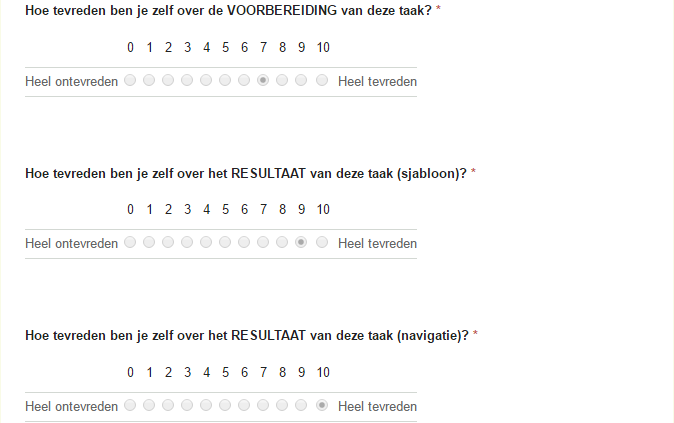
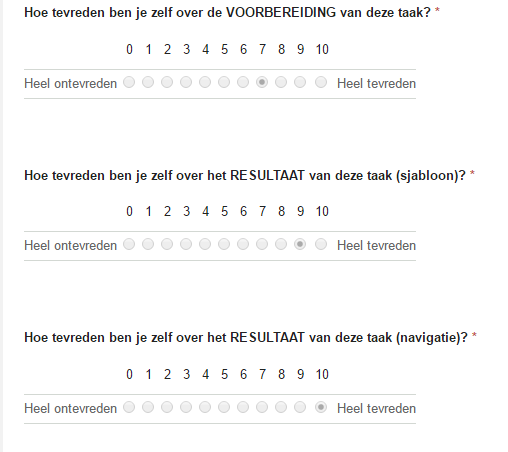
update #4 4 december 2016

diff --git a/AboutMe.html b/AboutMe.html
@@ -23,18 +23,21 @@
         <li class="pure-menu-item"><a href="info.html" class="pure-menu-link">Info</a></li>
     </ul>
 </div>
-
+    
+<div class="FAQ">
 <div class="wrapper wrapper-content pure-g">
-    <div class="section1 pure-u-1 pure-u-md-1-2">
-    <img src="images/ITAutobiography.png" class="imgAlign">
-    <h2>the past</h2>
-    <p>When I first discovered IT, I remember as if it were yesterday. A chilly winter day in the kitchen of our house with the TV on in the background and a laptop playing Ketnet Kick: The Mysterious Island. You must be thinking, "Do you still play them to this day?" The answer is quite simple, YES. Those games are precious to me. It’s like taking a lollipop from a 5-year old. That’s something you just do not do. I cried if my mom said: “Those games are ruining your childhood. Turn them off and help your dear mother an hour”. That was absolute hell to me. But then again, I was like 7 years old. An hour for my mom was a day lost to me. That was the gaming part of my childhood. There was also an internetting time, a time that I hold dear to me for the rest of my life. A time that just isn’t the internetting time of today. A time of Speeleiland.nl and Spele.nl. Yes those are gaming sites. So you could say that my childhood involved gaming and helping my mother. When I discovered these sites, it was like a whole new world opened up to me. For the first time in my life I had a remote game library that I could access around the world. And those were the best times of my childhood.</p>
-    <h2>the present</h2>
-    <p>With the past behind me I followed my dream to finally work in the IT world. And that journey led me to the Immaculata Institute, a school with one of the best IT courses in my area. A little school, yes, but that makes the tutors thus the more interesting. One thing before I continue my travels. I don’t consider myself an expert. There are far better technicians out there. With that said, we continue. I’m currently at the time of me writing this in senior year of high school. I have a past year full with disassembling computers and reassembling computers, using parts of different pcs to upgrade other ones, finding ‘ancient’ technology like a pong machine or floppy disks. But the highlight of the past year, after 3 years of nagging I finally put together my very own computer. If you’re wondering: “Why are computers so interesting? they’re just machines.” If you are thinking that then, in my opinion, you are the dumbest person on earth. In the fact that they are machines, yes, then you’re right. But you can do so much more than just game what I have been doing is just one part of the entire spectrum of the computer. yes you can play videogames all your life. There are even people who play video games and earn money with it, look at PewDiePie (a YouTuber) or CohhCarnage (a Twitch streamer). Other people earn their money by developing games such as Rocksteady (creator of the batman: Arkham series) or Rockstar studios (creator of Grand Theft Auto, GTA for short). That’s the gaming world, a world on its own. There are also different categories in the spectrum, like developing web applications or configuring and creating websites. I’m not going into all the details of all the different aspects. But there is one side of the spectrum that I personally really like. And that’s configuring and managing a network inside a company or school or whatever needs a stable network.</p>
-    <h2>the future</h2>
-    <p>As I said in the previous paragraph I really like to manage a network. I also want to make this my job in the end. I could spend my life just managing a network. I would be happy with that, having a wife, a couple of kids, and a job as the head in IT for some famous company. Money would flow in buckets then, living the perfect life I always wanted, and in my free time, a gaming rig with 3 BenQ monitors, DX Racer chair, 1080 GPU, i7 CPU,  it’s one nerd gasm after the other. That would complete all the efforts I made along the way.</p>
-    <blockquote class="blockquote-ITAutobiography"><i>But that’s all in the future. For now I have to focus on my studies as an IT specialist. Otherwise I can’t accomplish my goal, and would be very unhappy.</i></blockquote>
+    <div class="question pure-u-1 pure-u-md-1-2">
+        <img src="images/ITAutobiography.png" class="imgAlign">
+        <h2>the past</h2>
+        <p>When I first discovered IT, I remember as if it were yesterday. A chilly winter day in the kitchen of our house with the TV on in the background and a laptop playing Ketnet Kick: The Mysterious Island. You must be thinking, "Do you still play them to this day?" The answer is quite simple, YES. Those games are precious to me. It’s like taking a lollipop from a 5-year old. That’s something you just do not do. I cried if my mom said: “Those games are ruining your childhood. Turn them off and help your dear mother an hour”. That was absolute hell to me. But then again, I was like 7 years old. An hour for my mom was a day lost to me. That was the gaming part of my childhood. There was also an internetting time, a time that I hold dear to me for the rest of my life. A time that just isn’t the internetting time of today. A time of Speeleiland.nl and Spele.nl. Yes those are gaming sites. So you could say that my childhood involved gaming and helping my mother. When I discovered these sites, it was like a whole new world opened up to me. For the first time in my life I had a remote game library that I could access around the world. And those were the best times of my childhood.</p>
+        <h2>the present</h2>
+        <p>With the past behind me I followed my dream to finally work in the IT world. And that journey led me to the Immaculata Institute, a school with one of the best IT courses in my area. A little school, yes, but that makes the tutors thus the more interesting. One thing before I continue my travels. I don’t consider myself an expert. There are far better technicians out there. With that said, we continue. I’m currently at the time of me writing this in senior year of high school. I have a past year full with disassembling computers and reassembling computers, using parts of different pcs to upgrade other ones, finding ‘ancient’ technology like a pong machine or floppy disks. But the highlight of the past year, after 3 years of nagging I finally put together my very own computer. If you’re wondering: “Why are computers so interesting? they’re just machines.” If you are thinking that then, in my opinion, you are the dumbest person on earth. In the fact that they are machines, yes, then you’re right. But you can do so much more than just game what I have been doing is just one part of the entire spectrum of the computer. yes you can play videogames all your life. There are even people who play video games and earn money with it, look at PewDiePie (a YouTuber) or CohhCarnage (a Twitch streamer). Other people earn their money by developing games such as Rocksteady (creator of the batman: Arkham series) or Rockstar studios (creator of Grand Theft Auto, GTA for short). That’s the gaming world, a world on its own. There are also different categories in the spectrum, like developing web applications or configuring and creating websites. I’m not going into all the details of all the different aspects. But there is one side of the spectrum that I personally really like. And that’s configuring and managing a network inside a company or school or whatever needs a stable network.</p>
+        <h2>the future</h2>
+        <p>As I said in the previous paragraph I really like to manage a network. I also want to make this my job in the end. I could spend my life just managing a network. I would be happy with that, having a wife, a couple of kids, and a job as the head in IT for some famous company. Money would flow in buckets then, living the perfect life I always wanted, and in my free time, a gaming rig with 3 BenQ monitors, DX Racer chair, 1080 GPU, i7 CPU,  it’s one nerd gasm after the other. That would complete all the efforts I made along the way.</p>
+        <blockquote class="blockquote-ITAutobiography"><i>But that’s all in the future. For now I have to focus on my studies as an IT specialist. Otherwise I can’t accomplish my goal, and would be very unhappy.</i></blockquote>
     </div>
+    </div>
+</div>
 </div>
     
 

diff --git a/info.html b/info.html
@@ -23,25 +23,26 @@
     </ul>
 </div>    
 
-<h1 class="wrapper-content"><u>Terugblik op GIP eerste semester</u></h1>
-<div class="wrapper wrapper-content">
-    <div>
+<div>
+<div class="wrapper-content">
+    <div class="question">
         <h2>IT-tapa en instructiefilmpje:</h2>
             <h3>middagsessie:</h3>
-                <img src="images/ITTapa-sessie.png">
+                <img src="images/ITTapa-sessie.png" class="zelfreflectie-contentalign">
             <h3>instructiefilmpje:</h3>
-                <img src="images/ITTapa-instructiefilmpje.png">
+                <img src="images/ITTapa-instructiefilmpje.png" class="zelfreflectie-contentalign">
         <h2>Foire Aux Questions:</h2>
-            <img src="images/FAQ-zelfreflectie.png">
+            <img src="images/FAQ-zelfreflectie.png" class="zelfreflectie-contentalign">
         <h2>IT-autobiography:</h2>
-            <img src="images/ITAutobiography-zelfreflectie.png">
+            <img src="images/ITAutobiography-zelfreflectie.png" class="zelfreflectie-contentalign">
         <h2>IT-profile & -curriculum:</h2>
-            <img src="images/ITProfile-curriculum-zelfreflectie.png">
+            <img src="images/ITProfile-curriculum-zelfreflectie.png" class="zelfreflectie-contentalign">
         <h2>Ontwerp en navigatie GIP-website:</h2>
-            <img src="images/OntwerpNavigatie-GIPWebsite.png">
+            <img src="images/OntwerpNavigatie-GIPWebsite.png" class="zelfreflectie zelfreflectie-contentalign">
+    </div>
     </div>
 </div>
-
+</div>
     
     
     

diff --git a/style/style.css b/style/style.css
@@ -1,4 +1,4 @@
-/* ALGEMEEN */
+                                        /* ALGEMEEN */
 
 .footerFromTheDepths{
     margin-top: 100px;   
@@ -232,7 +232,7 @@ footer {
 
 
 
-/* IT-TAPA */
+                                        /* IT-TAPA */
 
 .ITTApa{
     display: flex;
@@ -280,7 +280,7 @@ footer {
 
 
 
-/* IT-PROFILE */
+                                        /* IT-PROFILE */
 
 .ITProfile{
     display: flex;
@@ -302,7 +302,7 @@ footer {
     
 }
 
-/* WELKOMSTWOORD */
+                                        /* WELKOMSTWOORD */
     
 .Welkomstwoord-text-align{
     margin-left: 1cm;
@@ -312,7 +312,7 @@ footer {
     justify-content: center;
 }
 
-/* STAGE */
+                                        /* STAGE */
 
 .stageZin{
     font-family: fantasy;
@@ -333,6 +333,16 @@ footer {
 
 
 
-/* ZELFREFLECTIE GIP */
+                                        /* ZELFREFLECTIE GIP */
 
-/* TRYOUT CSS */
+.zelfreflectie{
+    margin-bottom: 100px;
+}
+
+.zelfreflectie-contentalign{
+    display: flex;
+    align-content: center;
+    justify-content: center;
+}
+
+                                        /* TRYOUT CSS */
